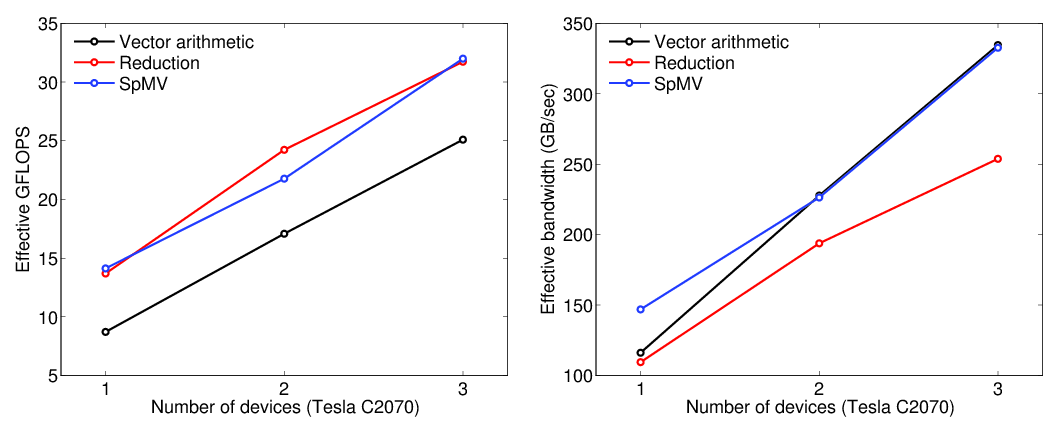
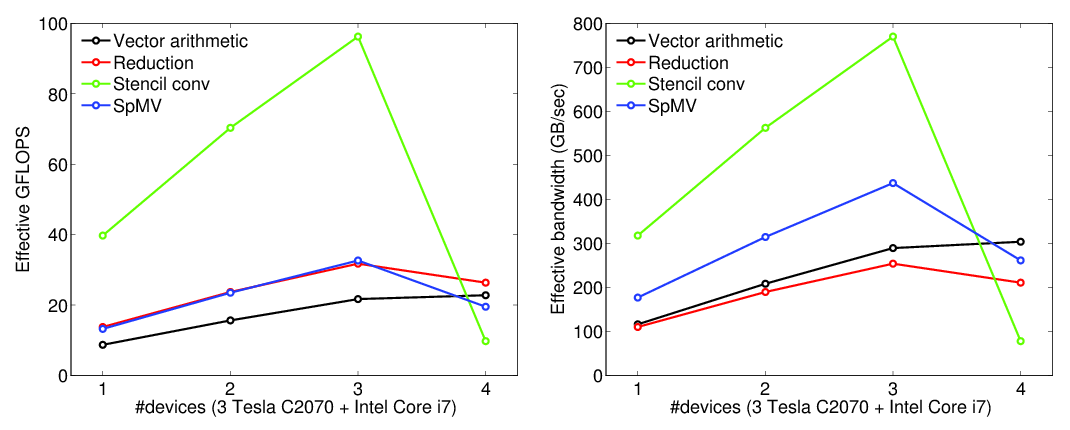
Updated scalability section

diff --git a/vexcl/vexcl.hpp b/vexcl/vexcl.hpp
@@ -288,7 +288,8 @@ std::cout << sum(x) << std::endl;
 In the images below, scalability of the library with respect to number of
 compute devices is shown. Effective performance (GFLOPS) and bandwidth (GB/sec)
 were measured by launching big number of test kernels on one, two, or three
-Nvidia Tesla C2070 cards. The results shown are averaged over 20 runs.
+Nvidia Tesla C2070 cards. Effect of adding fourth, slower, device (Intel Core
+i7) were tested as well. The results shown are averaged over 20 runs.
 
 The details of the experiments may be found in <a
 href="https://github.com/ddemidov/vexcl/blob/master/examples/benchmark.cpp">
@@ -302,11 +303,24 @@ a += b + c * d;
 // Reduction
 double s = sum(a * b);
 
+// Stencil convolution
+y = x * s;
+
 // SpMV
 y += A * x;
 \endcode
 
 \image html perf.png ""
+
+As you can see, performance and bandwidth for stencil convolution operation are
+much higher than for other primitives. This is due to the fact that much faster
+local (shared) memory is used in this algorithm, and formulas for effective
+performance and bandwidth do not take this into account.
+
+Another thing worth noting is overall degradation of performance after Intel
+CPU is added to VexCL context. The only primitive gaining speed from this
+addition is vector arithmetic. This is probably because performance of vector
+arithmetic was used as a basis for problem partitioning.
 
 \section compilers Supported compilers
 

diff --git a/examples/show_profiling_data.m b/examples/show_profiling_data.m
@@ -55,9 +55,9 @@ plot(1:max_cards, spm_gflops, 'bo-', ...
 		'linewidth', 2, 'markersize', 6, 'markerfacecolor', 'w');
 
 xlim([0.75 max_cards + 0.25]);
-set(gca, 'xtick', [1 2 3]);
+set(gca, 'xtick', 1:max_cards);
 
-xlabel('Number of devices (Tesla C2070)')
+xlabel('#devices (3 Tesla C2070 + Intel Core i7)')
 ylabel('Effective GFLOPS')
 
 legend('Vector arithmetic', 'Reduction', 'Stencil conv', 'SpMV', ...
@@ -83,9 +83,9 @@ plot(1:max_cards, spm_bwidth, 'bo-', ...
 		'linewidth', 2, 'markersize', 6, 'markerfacecolor', 'w');
 
 xlim([0.75 max_cards + 0.25]);
-set(gca, 'xtick', [1 2 3]);
+set(gca, 'xtick', 1:max_cards);
 
-xlabel('Number of devices (Tesla C2070)')
+xlabel('#devices (3 Tesla C2070 + Intel Core i7)')
 ylabel('Effective bandwidth (GB/sec)')
 
 legend('Vector arithmetic', 'Reduction', 'Stencil conv', 'SpMV', ...

diff --git a/README.md b/README.md
@@ -274,7 +274,8 @@ Scalability
 In the images below, scalability of the library with respect to number of
 compute devices is shown. Effective performance (GFLOPS) and bandwidth (GB/sec)
 were measured by launching big number of test kernels on one, two, or three
-Nvidia Tesla C2070 cards. The results shown are averaged over 20 runs.
+Nvidia Tesla C2070 cards. Effect of adding fourth, slower, device (Intel Core
+i7) were tested as well. The results shown are averaged over 20 runs.
 
 The details of the experiments may be found in [benchmark.cpp][r1].
 Basically, performance of the following code was measured:
@@ -286,11 +287,24 @@ a += b + c * d;
 // Reduction
 double s = sum(a * b);
 
+// Stencil convolution
+y = x * s;
+
 // SpMV
 y += A * x;
 ```
 
 ![Performance][i1]
+
+As you can see, performance and bandwidth for stencil convolution operation are
+much higher than for other primitives. This is due to the fact that much faster
+local (shared) memory is used in this algorithm, and formulas for effective
+performance and bandwidth do not take this into account.
+
+Another thing worth noting is overall degradation of performance after Intel
+CPU is added to VexCL context. The only primitive gaining speed from this
+addition is vector arithmetic. This is probably because performance of vector
+arithmetic was used as a basis for problem partitioning.
 
 Supported compilers
 ----------------------------
